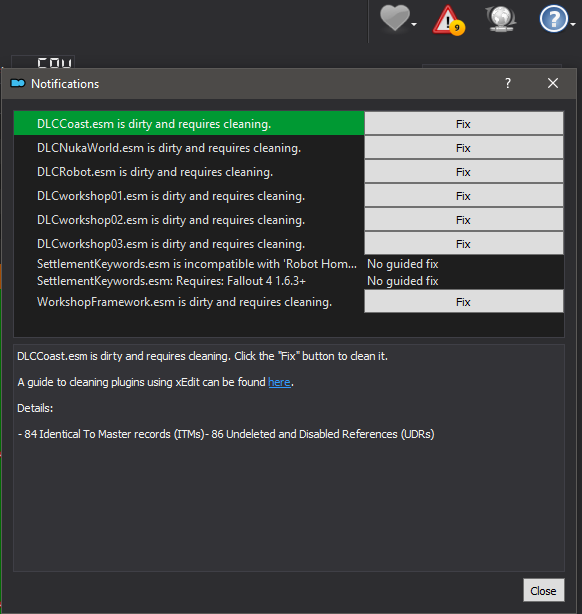
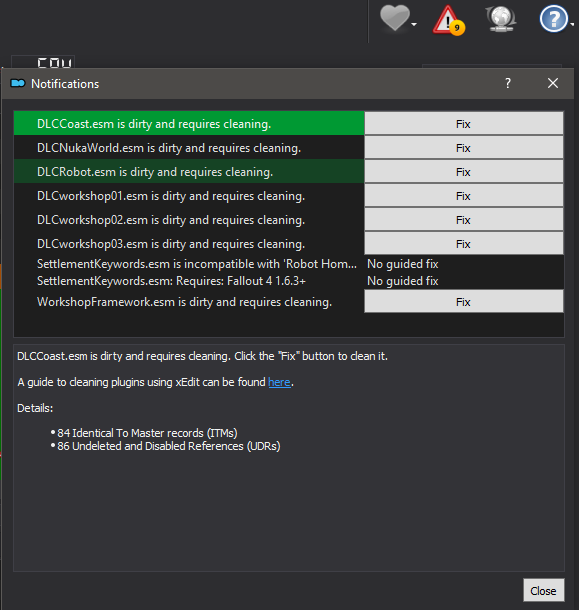
Improve dirty plugin warning message formatting

diff --git a/tools/LOOT/Warnings.py b/tools/LOOT/Warnings.py
@@ -191,10 +191,11 @@ class DirtyPluginWarning(LOOTWarning):
         else:
             self.fullDescription = f"{self.shortDescription}<br/><br/>{content}"
         if any((self.itm, self.udr, self.nav)):
-            self.fullDescription += "<br/><br/>Details:<br/><br/>"
+            self.fullDescription += "<br/><br/>Details:<ul>"
             if self.itm is not None:
-                self.fullDescription += f"- {self.itm} Identical To Master records (ITMs)"
+                self.fullDescription += f"<li>{self.itm} Identical To Master records (ITMs)</li>"
             if self.udr is not None:
-                self.fullDescription += f"- {self.udr} Undeleted and Disabled References (UDRs)"
+                self.fullDescription += f"<li>{self.udr} Undeleted and Disabled References (UDRs)</li>"
             if self.nav is not None:
-                self.fullDescription += f"- {self.nav} Deleted Navmeshes (NAVs)"
+                self.fullDescription += f"<li>{self.nav} Deleted Navmeshes (NAVs)</li>"
+            self.fullDescription += "</ul>"

diff --git a/Plugin.py b/Plugin.py
@@ -57,7 +57,7 @@ class LOOTWarningChecker(mobase.IPluginDiagnose):
         return self.__tr("Checks for LOOT warnings.")
 
     def version(self) -> mobase.VersionInfo:
-        return mobase.VersionInfo(0, 0, 1, mobase.ReleaseType.ALPHA)
+        return mobase.VersionInfo(0, 1, 0, mobase.ReleaseType.ALPHA)
 
     def requirements(self) -> List[mobase.IPluginRequirement]:
         return [
